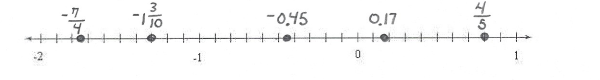
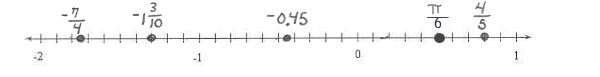
edits on 2.1

diff --git a/u2s1.html b/u2s1.html
@@ -203,13 +203,13 @@
 
         <li>
 Graph each number in the list on the given number line.
-<p>\(-0.45, \frac{4}{5},-1 \frac{3}{10},-\frac{7}{4}, \frac{\pi}{4}\)</p>
+<p>\(-0.45, \frac{4}{5},-1 \frac{3}{10},-\frac{7}{4}, \frac{\pi}{6}\)</p>
           
             
             <p><img src="images/u2s1p12.png" alt="A number line numbered from -2 to 1 with ten intervals between integers."></p>
             
             
-            <p class="solution"><img src="images/u2s1p12k.png" alt="-7/4 is between the second and third scale marks to the right of -2. -1 and 3/10 is at the third scale mark left of -1. -0.45 is midway between the fourth and fifth scale marks left of zero. 0.17 is between the first and second scale marks right of zero, but closer to the second scale mark. 4/5 is at the eighth scale mark to the right of zero."></p>
+            <p class="solution"><img src="images/u2s1p12k.png" alt="-7/4 is between the second and third scale marks to the right of -2. -1 and 3/10 is at the third scale mark left of -1. -0.45 is midway between the fourth and fifth scale marks left of zero. Pi divided by 6 is between the fifth and sixth scale marks right of zero, but closer to the fifth scale mark. 4/5 is at the eighth scale mark to the right of zero."></p>
   </li>
   <li>
     Label the number line with an appropriate scale, then locate the following numbers on the number line.  Clearly label the scale and each point at its location.
